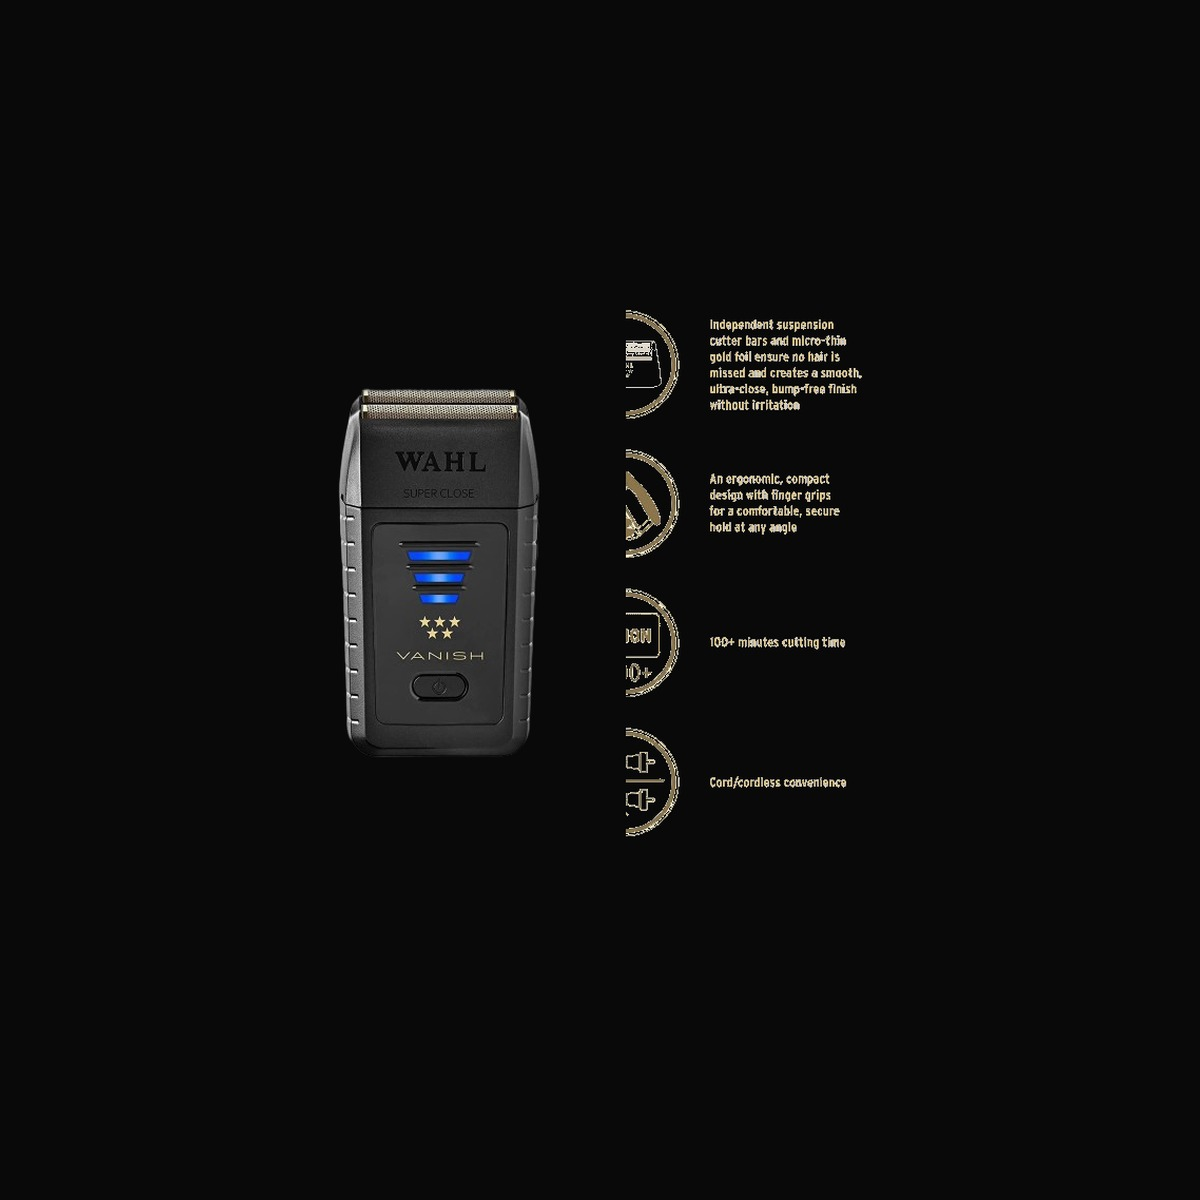
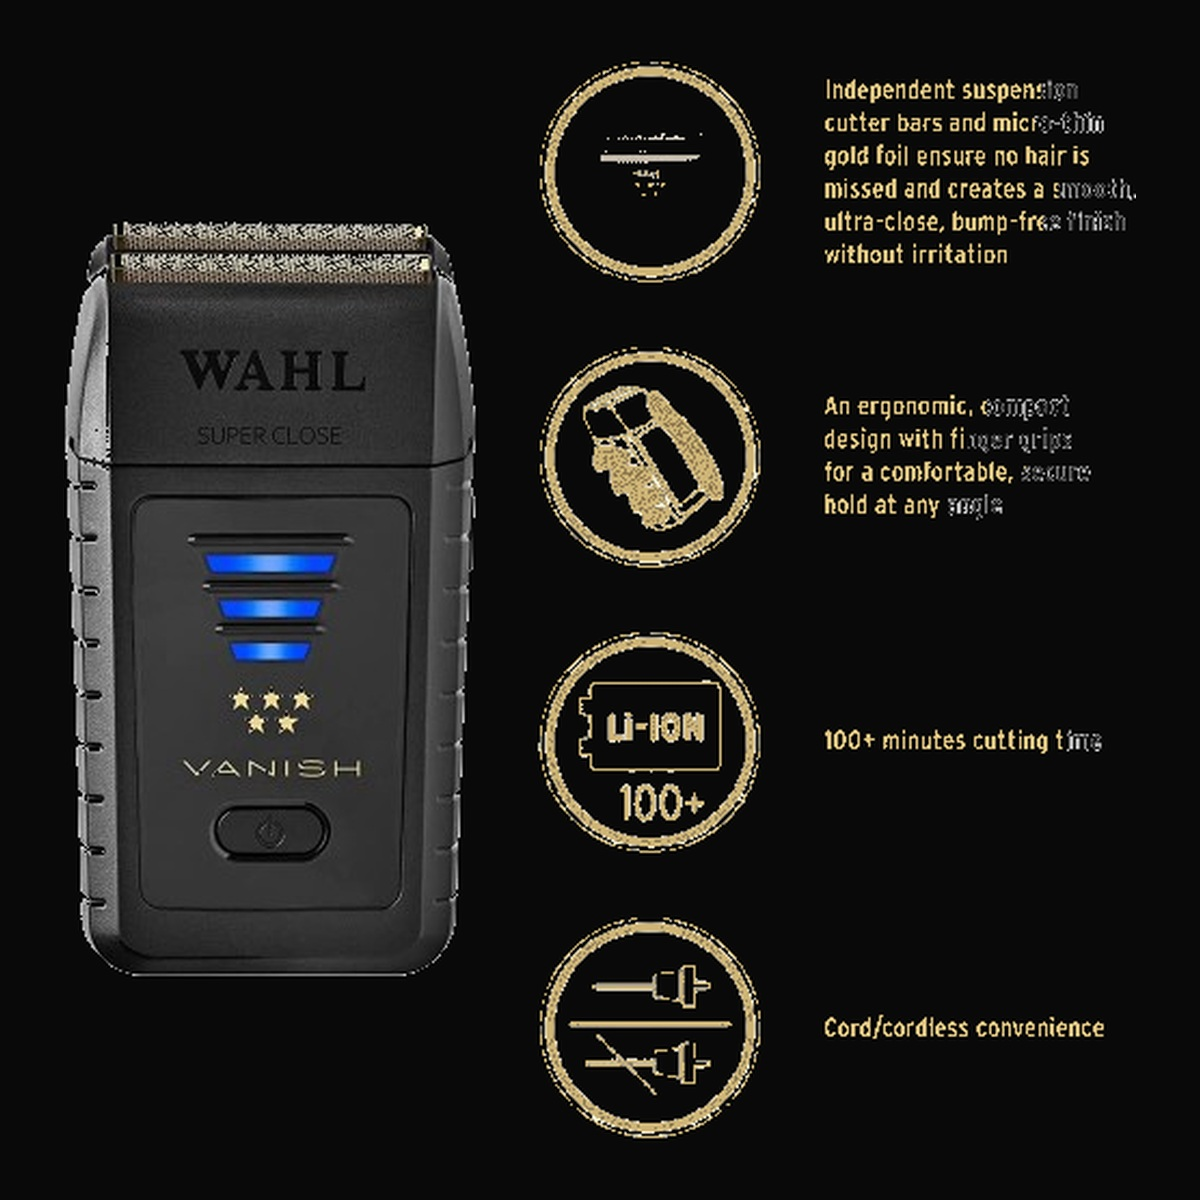
Fix cropped Vanish Zero Finish features image (#19)
* Fix cropped Vanish Zero Finish features image.

Rebuild vanish-features so all four instruction icons and text
remain fully visible on the dark studio background.

* Fix quick-view gallery counter RTL order.

Force LTR on the photo index so it shows 2 / 4 instead of 4 / 2.

---------

diff --git a/src/components/QuickView.jsx b/src/components/QuickView.jsx
@@ -107,7 +107,7 @@ export default function QuickView() {
                   <IconChevron className="h-5 w-5" />
                 </button>
                 <p className="pointer-events-none absolute inset-x-0 bottom-3 flex justify-center">
-                  <span className="bg-ink/80 px-2 py-1 text-[11px] tabular-nums text-ivory">
+                  <span dir="ltr" className="bg-ink/80 px-2 py-1 text-[11px] tabular-nums text-ivory">
                     {photo + 1} / {gallery.length}
                   </span>
                 </p>
